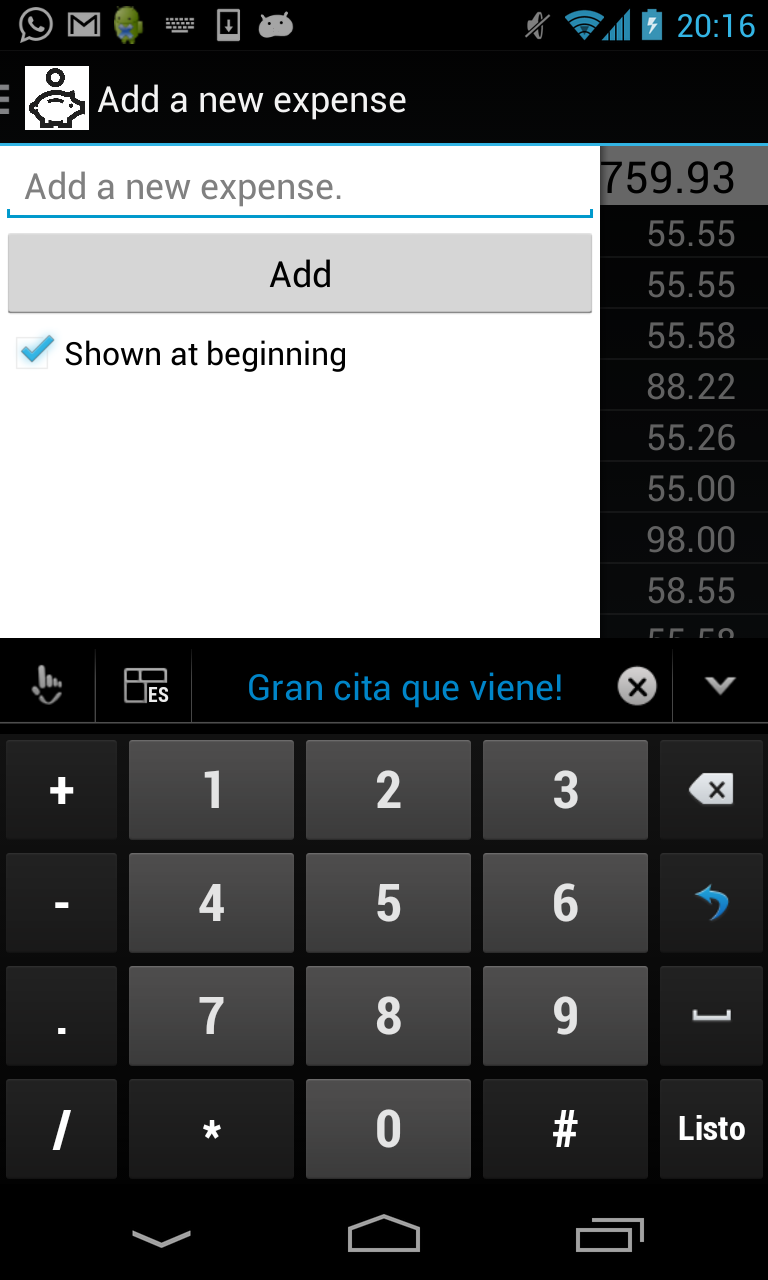
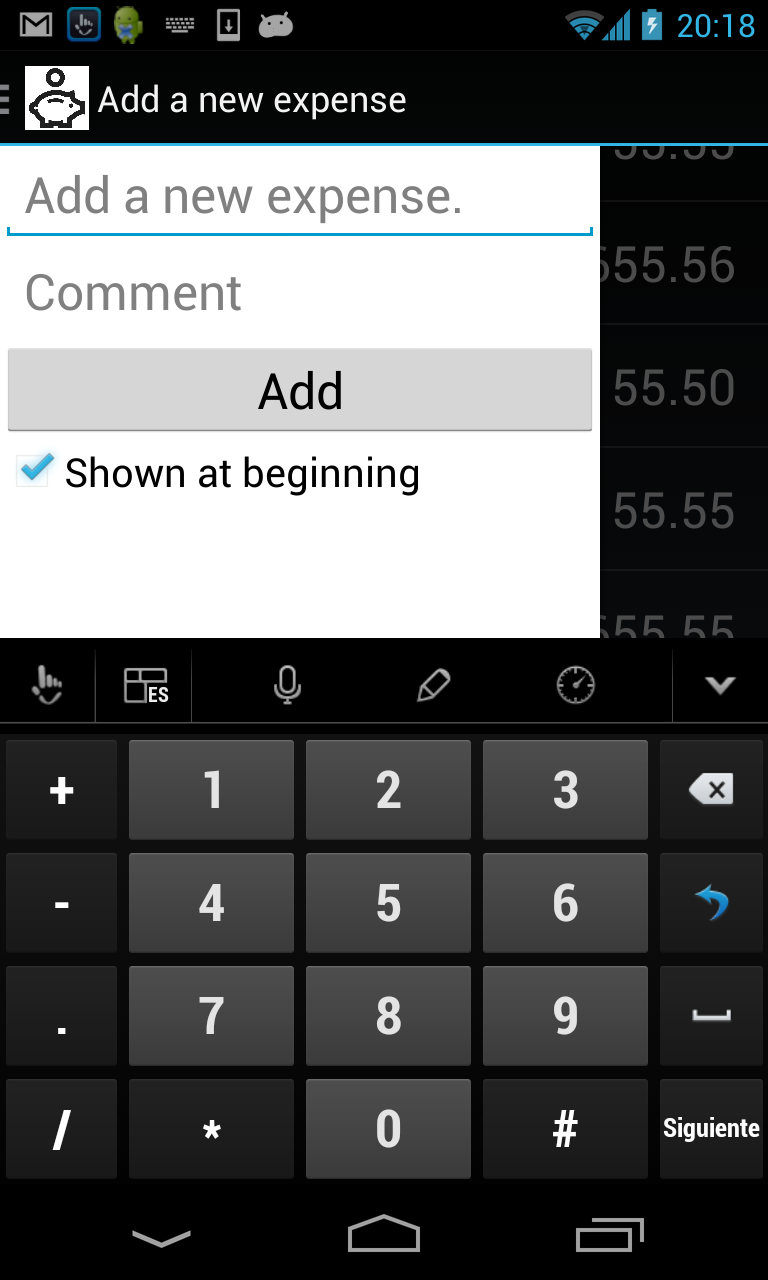
Set the behaviour of the left drawer. Now it also opens when the app resumes

diff --git a/src/com/jiahaoliuliu/android/myexpenses/MainActivity.java b/src/com/jiahaoliuliu/android/myexpenses/MainActivity.java
@@ -57,7 +57,7 @@ public class MainActivity extends SherlockFragmentActivity {
 
 	// Variables
 	private DrawerLayout mDrawerLayout;
-	private LinearLayout mDrawerLinearLayout;
+	private LinearLayout mLeftLinearDrawer;
 	private ActionBarDrawerToggle mDrawerToggle;
 	
 	private TextView totalExpenseTV;
@@ -69,7 +69,8 @@ public class MainActivity extends SherlockFragmentActivity {
 	
 	private CharSequence mDrawerTitle;
 	private CharSequence mTitle;
-	
+
+	private boolean showAddNewExpenseAtBeginning;
 	// For the soft input
 	private InputMethodManager imm;
 	private TelephonyManager telephonyManager;
@@ -110,7 +111,7 @@ public class MainActivity extends SherlockFragmentActivity {
 
 		// Link the content
 		mDrawerLayout = (DrawerLayout)findViewById(R.id.drawer_layout);
-		mDrawerLinearLayout = (LinearLayout)findViewById(R.id.linearLayoutDrawer);
+		mLeftLinearDrawer = (LinearLayout)findViewById(R.id.leftLinearDrawer);
 
 		totalExpenseTV = (TextView)findViewById(R.id.totalExpenseQuantityTextView);
 		contentListView = (ListView)findViewById(R.id.contentListView);
@@ -119,10 +120,10 @@ public class MainActivity extends SherlockFragmentActivity {
 		totalExpenseTV = (TextView)listHeaderView.findViewById(R.id.totalExpenseQuantityTextView);
 		contentListView.addHeaderView(listHeaderView, null, false);
 
-		addNewExpenseEditText = (EditText)mDrawerLinearLayout.findViewById(R.id.addNewExpenseEditText);
-		addNewExpenseCommentEditText = (EditText)mDrawerLinearLayout.findViewById(R.id.addNewExpenseCommentEditText);
-		addNewExpenseButton = (Button)mDrawerLinearLayout.findViewById(R.id.addNewExpenseButton);
-		addNewExpenseCheckBox = (CheckBox)mDrawerLinearLayout.findViewById(R.id.addNewExpenseButtonCheckBox);
+		addNewExpenseEditText = (EditText)mLeftLinearDrawer.findViewById(R.id.addNewExpenseEditText);
+		addNewExpenseCommentEditText = (EditText)mLeftLinearDrawer.findViewById(R.id.addNewExpenseCommentEditText);
+		addNewExpenseButton = (Button)mLeftLinearDrawer.findViewById(R.id.addNewExpenseButton);
+		addNewExpenseCheckBox = (CheckBox)mLeftLinearDrawer.findViewById(R.id.addNewExpenseButtonCheckBox);
 
 		// Set a custom shadow that overlays the main content when the drawer opens
 		mDrawerLayout.setDrawerShadow(R.drawable.drawer_shadow, GravityCompat.START);
@@ -168,15 +169,8 @@ public class MainActivity extends SherlockFragmentActivity {
 			preferences.setBoolean(BooleanId.SHOWN_ADD_NEW_EXPENSE_AT_BEGINNING, true);
 		}
 
-		boolean showAddNewExpenseAtBeginning = preferences.getBoolean(BooleanId.SHOWN_ADD_NEW_EXPENSE_AT_BEGINNING);
-		if (showAddNewExpenseAtBeginning) {
-			mDrawerLayout.openDrawer(mDrawerLinearLayout);
-			addNewExpenseEditText.requestFocus();
-        	imm.toggleSoftInput(InputMethodManager.SHOW_FORCED, InputMethodManager.HIDE_IMPLICIT_ONLY);
-        	getSupportActionBar().setTitle(mDrawerTitle);
-		}
-
 		// Draw the layout
+		showAddNewExpenseAtBeginning = preferences.getBoolean(BooleanId.SHOWN_ADD_NEW_EXPENSE_AT_BEGINNING);
 		addNewExpenseCheckBox.setChecked(showAddNewExpenseAtBeginning);
 		totalExpenseTV.setText(String.valueOf(dec.format(calculateTotalExpense()).replace(",", ".")));
 		contentListAdapter = new ContentListAdapter(context, R.layout.date_row_layout, expenseList);
@@ -195,7 +189,8 @@ public class MainActivity extends SherlockFragmentActivity {
 			
 			@Override
 			public void onCheckedChanged(CompoundButton buttonView, boolean isChecked) {
-				preferences.setBoolean(BooleanId.SHOWN_ADD_NEW_EXPENSE_AT_BEGINNING, isChecked);
+				showAddNewExpenseAtBeginning = isChecked;
+				preferences.setBoolean(BooleanId.SHOWN_ADD_NEW_EXPENSE_AT_BEGINNING, showAddNewExpenseAtBeginning);
 			}
 		});
 
@@ -225,10 +220,10 @@ public class MainActivity extends SherlockFragmentActivity {
 	@Override
 	public boolean onOptionsItemSelected(MenuItem item) {
 		if (item.getItemId() == android.R.id.home) {
-			if (mDrawerLayout.isDrawerOpen(mDrawerLinearLayout)) {
-				mDrawerLayout.closeDrawer(mDrawerLinearLayout);
+			if (mDrawerLayout.isDrawerOpen(mLeftLinearDrawer)) {
+				mDrawerLayout.closeDrawer(mLeftLinearDrawer);
 			} else {
-				mDrawerLayout.openDrawer(mDrawerLinearLayout);
+				mDrawerLayout.openDrawer(mLeftLinearDrawer);
 			}
 		}
 		
@@ -370,5 +365,17 @@ public class MainActivity extends SherlockFragmentActivity {
 		
 		// Close the database on pause
 		expenseDBAdapter.closeDatabase();
+	}
+	
+	@Override
+	protected void onResume() {
+		super.onResume();
+		//showAddNewExpenseAtBeginning = preferences.getBoolean(BooleanId.SHOWN_ADD_NEW_EXPENSE_AT_BEGINNING);
+		if (showAddNewExpenseAtBeginning) {
+			mDrawerLayout.openDrawer(mLeftLinearDrawer);
+			addNewExpenseEditText.requestFocus();
+        	imm.toggleSoftInput(InputMethodManager.SHOW_FORCED, InputMethodManager.HIDE_IMPLICIT_ONLY);
+        	getSupportActionBar().setTitle(mDrawerTitle);
+		}
 	}
 }

diff --git a/src/com/jiahaoliuliu/android/myexpenses/util/ExpenseDBAdapter.java b/src/com/jiahaoliuliu/android/myexpenses/util/ExpenseDBAdapter.java
@@ -24,7 +24,7 @@ public class ExpenseDBAdapter {
 	
 	private static final String DATABASE_NAME = "Expenses";
 	
-	private static final int DATABASE_VERSION = 1;
+	private static final int DATABASE_VERSION = 2;
 
 	private static final String DATABASE_TABLE = "expenses";
 	
